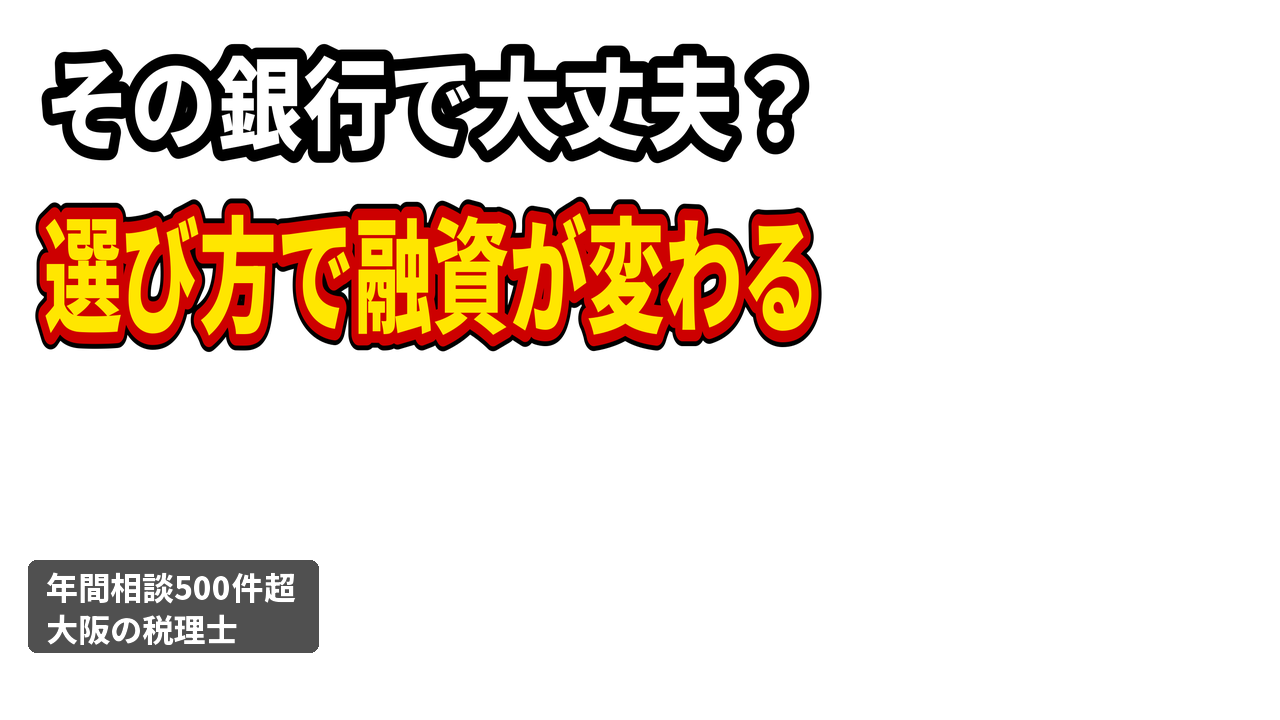
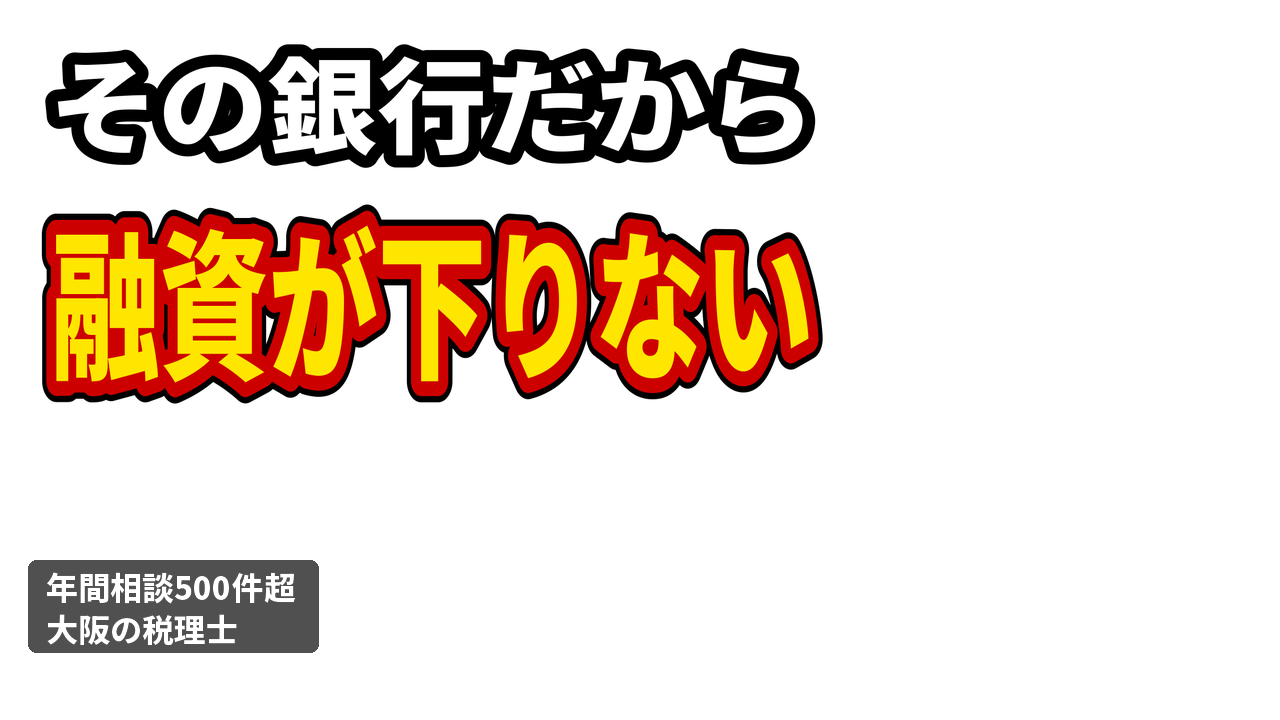
Actvision: 銀行5選サムネAをTak決定の文言（その銀行だから／融資が下りない）に差し替え、コンタクトシート更新
Claude-Session: https://claude.ai/code/session_01DHBSnLSCJvtnYECMcaMvR9

Changed region(s): [[0.0, 0.275, 0.6562, 0.5806], [0.0312, 0.0611, 0.6562, 0.2444]]

diff --git a/clients/Actvision/thumbs/ginko5/gen_thumb_ginko5.py b/clients/Actvision/thumbs/ginko5/gen_thumb_ginko5.py
@@ -253,7 +253,7 @@ def text_layer3(l1segs,l2segs,gap=16):
     return t,h1,h2
 
 FINAL={
- "A":dict(scene=scene_A,l1=[("その銀行で大丈夫？",WHT,BLK)],l2=[("選び方で融資が変わる",YEL,RED_S)]),
+ "A":dict(scene=scene_A,l1=[("その銀行だから",WHT,BLK)],l2=[("融資が下りない",YEL,RED_S)]),
  "B":dict(scene=scene_B,l1=[("ネット銀行がメイン？",WHT,BLK)],l2=[("税理士の答えは？",YEL,RED_S)]),
  "C":dict(scene=scene_C,l1=[("最初はメガバンク？",WHT,BLK)],l2=[("創業時に合う銀行は？",YEL,RED_S)]),
 }
